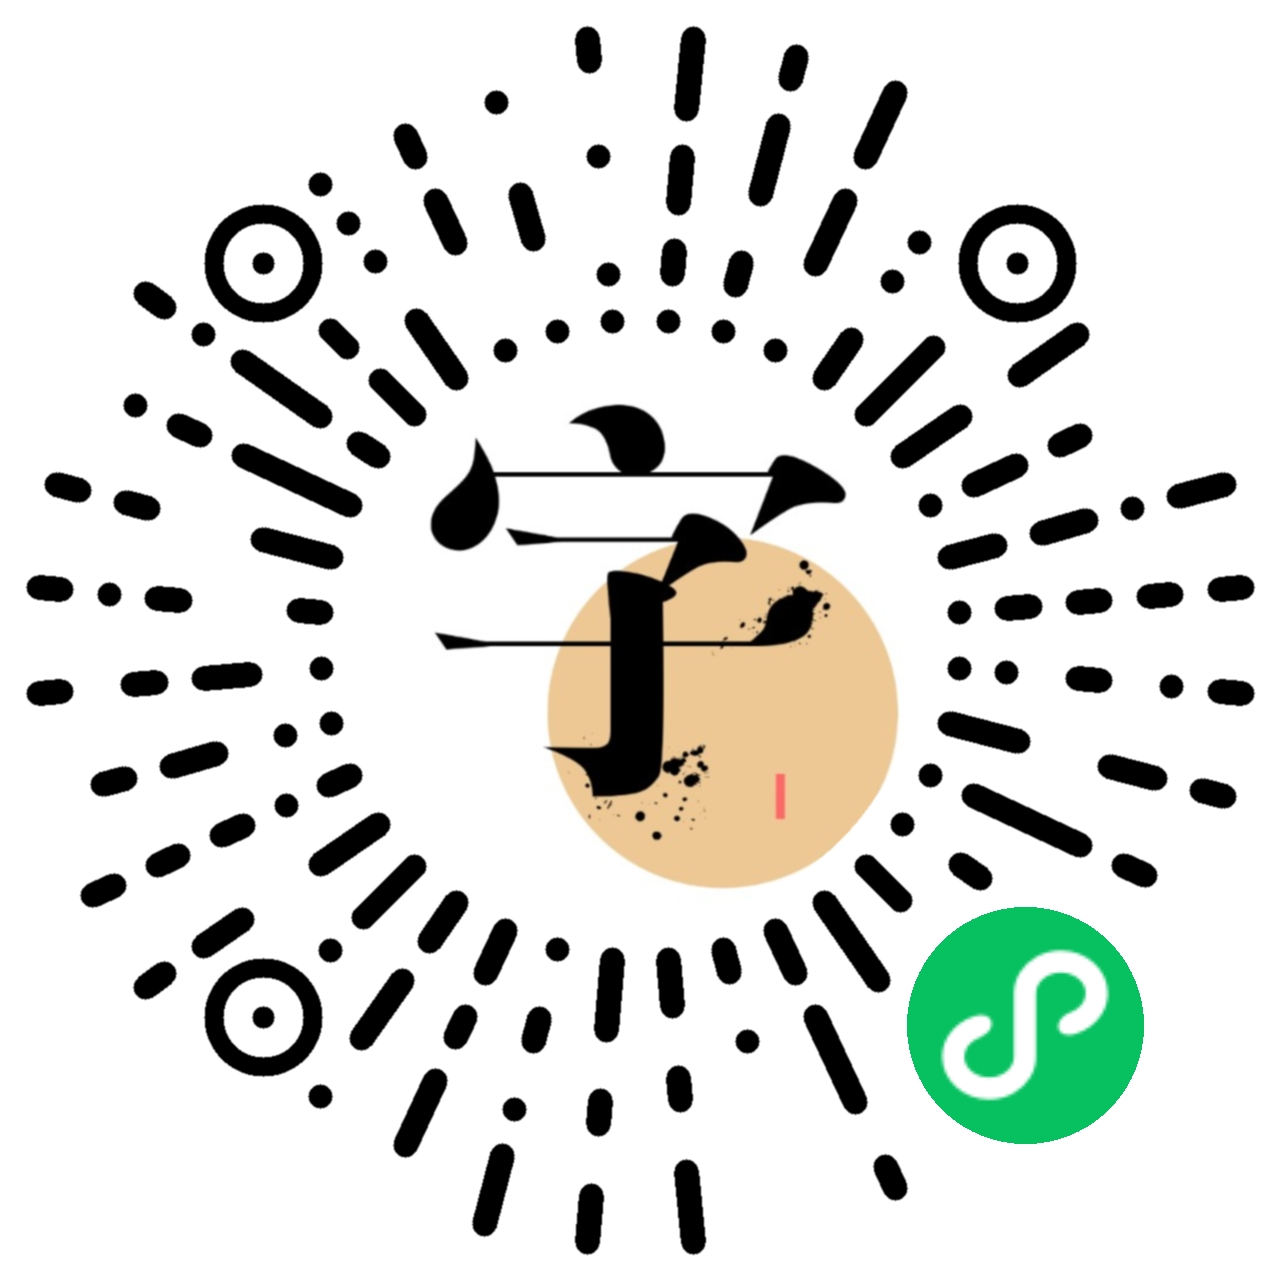
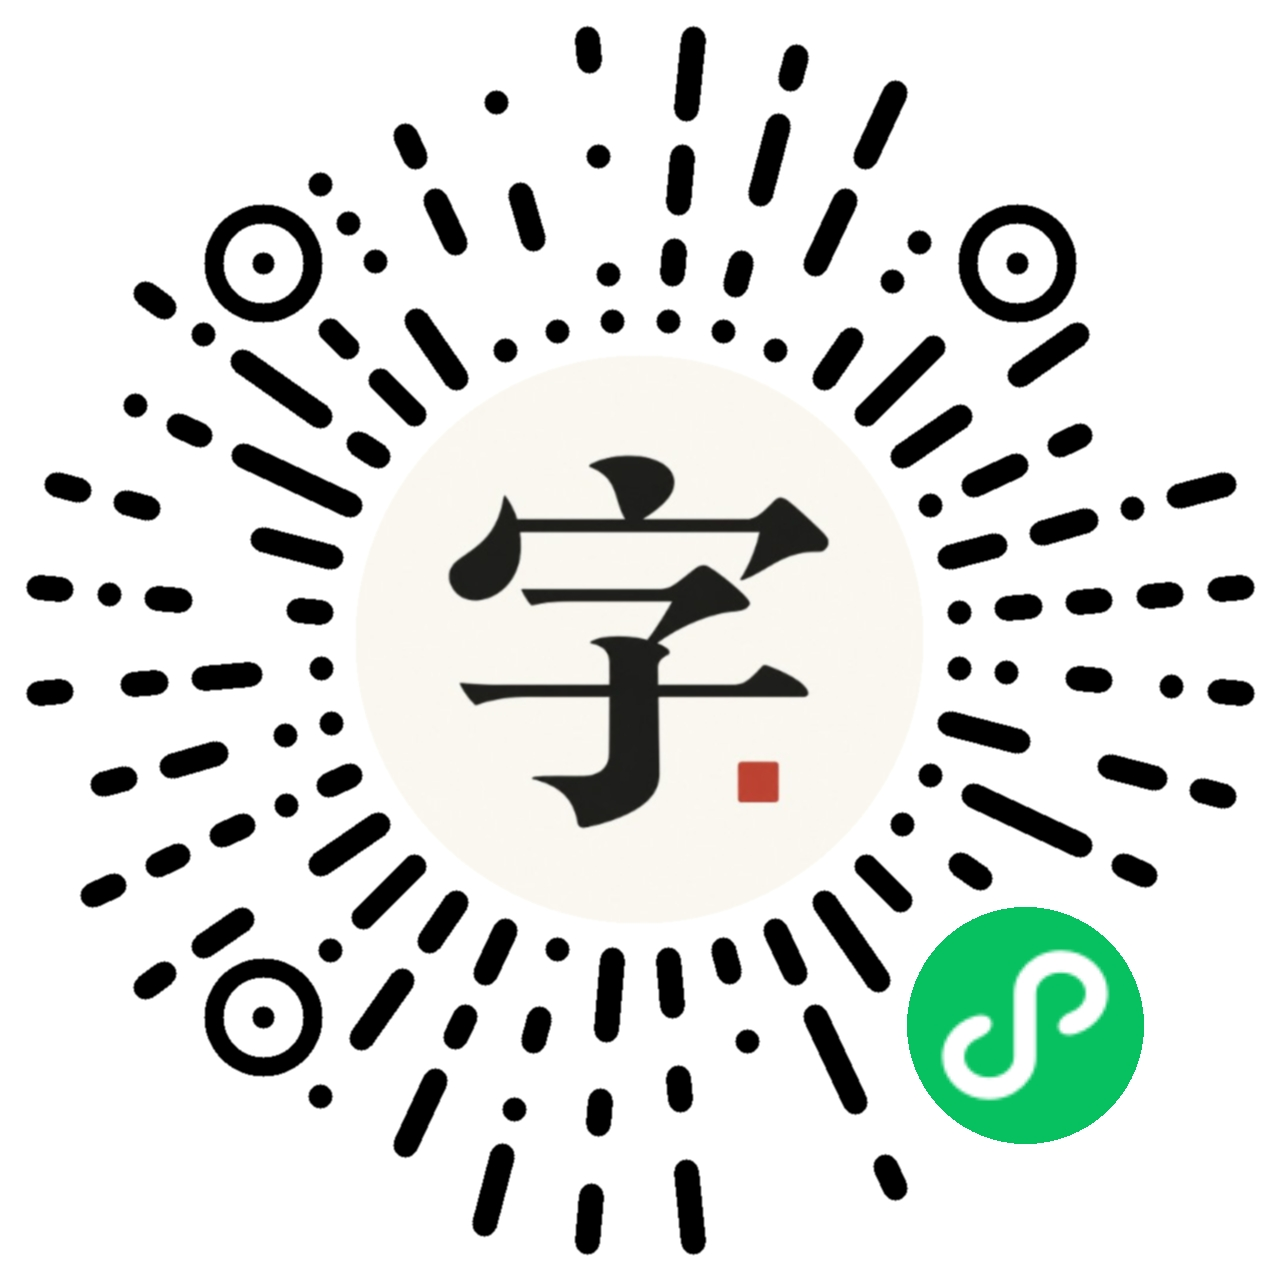
Replace mini program QR code and refresh cached links

Changed region(s): [[0.3125, 0.3125, 0.7188, 0.7188]]

diff --git a/index.html b/index.html
@@ -72,9 +72,9 @@
       </div>
     </section>
 
-    <section class="start-section section-width" id="start" aria-labelledby="startTitle"><div><h2 id="startTitle">下一页，<br>写你想写的。</h2><p>打开微信扫一扫，开始你的字签。</p></div><figure class="code-card"><img src="./assets/miniprogram-code.jpg" alt="字签微信小程序码，使用微信扫一扫识别" width="1280" height="1280" loading="lazy"><figcaption>微信扫一扫 · 字签小程序</figcaption></figure></section>
+    <section class="start-section section-width" id="start" aria-labelledby="startTitle"><div><h2 id="startTitle">下一页，<br>写你想写的。</h2><p>打开微信扫一扫，开始你的字签。</p></div><figure class="code-card"><img src="./assets/miniprogram-code.jpg?v=b73d636f" alt="字签微信小程序码，使用微信扫一扫识别" width="1280" height="1280" loading="lazy"><figcaption>微信扫一扫 · 字签小程序</figcaption></figure></section>
   </main>
   <footer class="site-footer section-width"><a class="brand" href="#"><span class="brand-mark" aria-hidden="true">字</span><span>字签</span></a><p>把文字，留成一页。</p><a href="mailto:1016473653@qq.com">联系作者 <span aria-hidden="true">↗</span></a></footer>
-  <dialog id="codeDialog" aria-labelledby="dialogTitle"><div class="dialog-heading"><h2 id="dialogTitle">在微信里，打开字签</h2><button id="closeDialog" class="close-button" aria-label="关闭小程序码"><img src="./assets/close.svg" alt="" width="24" height="24"></button></div><img class="dialog-code" src="./assets/miniprogram-code.jpg" alt="字签微信小程序码" width="1280" height="1280"><p>微信扫一扫，或保存后从微信扫一扫相册中识别。</p><a class="button" href="./assets/miniprogram-code.jpg" download="字签小程序码.jpg">保存小程序码</a><p class="dialog-note">扫码结果以微信实际识别为准</p></dialog>
+  <dialog id="codeDialog" aria-labelledby="dialogTitle"><div class="dialog-heading"><h2 id="dialogTitle">在微信里，打开字签</h2><button id="closeDialog" class="close-button" aria-label="关闭小程序码"><img src="./assets/close.svg" alt="" width="24" height="24"></button></div><img class="dialog-code" src="./assets/miniprogram-code.jpg?v=b73d636f" alt="字签微信小程序码" width="1280" height="1280"><p>微信扫一扫，或保存后从微信扫一扫相册中识别。</p><a class="button" href="./assets/miniprogram-code.jpg?v=b73d636f" download="字签小程序码.jpg">保存小程序码</a><p class="dialog-note">扫码结果以微信实际识别为准</p></dialog>
 </body>
 </html>
